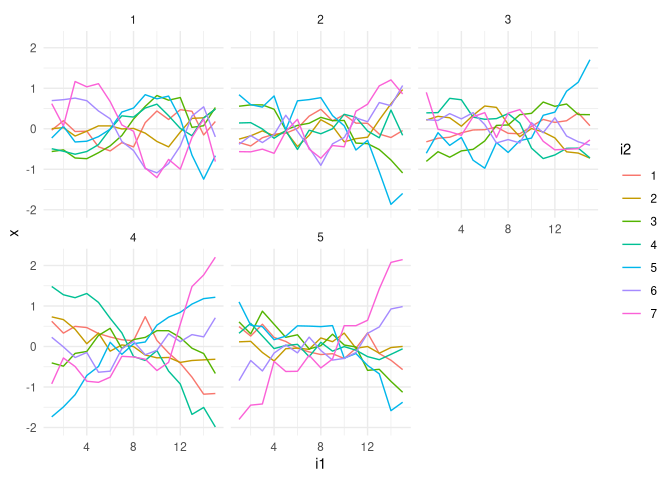
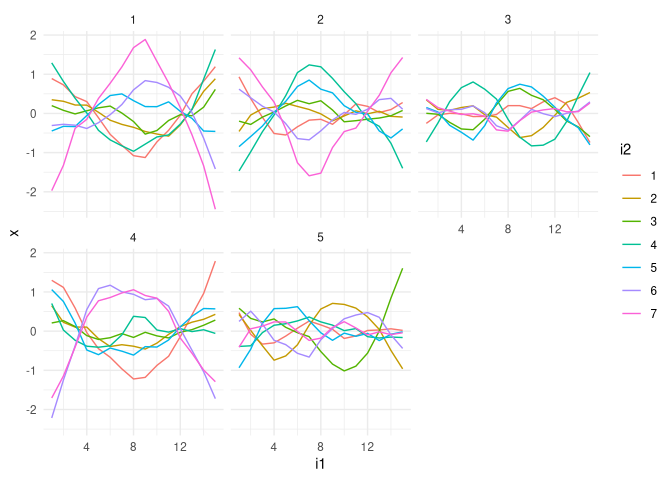
update README

diff --git a/README.md b/README.md
@@ -11,38 +11,38 @@ Status](http://www.r-pkg.org/badges/version-last-release/INLAtools)](https://cra
 <!-- badges: end -->
 
 Contain code to work with a C struct, in short cgeneric, to define a
-Gaussian Markov random (GMRF) model. The cgeneric contain code to
-specify GMRF elements such as the graph and the precision matrix, and
-also the initial and prior for its parameters, useful for model
-inference. It can be accessed from a C program and is the recommended
-way to implement new GMRF models in the ‘INLA’ package
-(<https://www.r-inla.org>). The ‘INLAtools’ implement functions to
-evaluate each one of the model specifications from R. The implemented
-functionalities leverage the use of ‘cgeneric’ models and provide a way
-to debug the code as well to work with the prior for the model
-parameters and to sample from it. A very useful functionality is the
-Kronecker product method that creates a new model from multiple cgeneric
-models. It also works with the rgeneric, the R version of the cgeneric
-intended to easy try implementation of new GMRF models. The Kronecker
-between two cgeneric models can be used to build the spatio-temporal
-intrinsic interaction models [Knorr-Held
-(2000)](https://onlinelibrary.wiley.com/doi/10.1002/1097-0258%2820000915/30%2919%3A17/18%3C2555%3A%3AAID-SIM587%3E3.0.CO%3B2-%23)
-for what the needed constraints are automatically set as in the example
-below.
+Gaussian Markov random (GMRF) model. The cgeneric contain required data
+to specify GMRF elements such as the graph and the precision matrix, as
+well hyper-parameters definition, such as initial values and the prior,
+which are useful for model inference. It can be accessed from a C
+program and is the recommended way to implement new GMRF models in the
+‘INLA’ package (<https://www.r-inla.org>). We also provide access from
+R, useful for code debug and evaluate the prior for multiple parameter
+sets. The implemented functionalities leverage the use of ‘cgeneric’
+models. In order to illustrate it, a model named `generic0` is included.
+It can be used to implement intrinsic models and scale it by default, as
+proposed in Sørbye & Rue (2014) <doi:10.1016/j.spasta.2013.06.004>, as
+well defining the required constraints. A very useful functionality is
+the Kronecker product method that creates a new model from multiple
+cgeneric models. It also works with the rgeneric, the R version of the
+cgeneric intended to easy try implementation of new GMRF models before
+making it for production. The constraints of a Kronecker between two
+cgeneric models, such as spatio-temporal intrinsic interaction models,
+see [Knorr-Held
+(2000)](https://onlinelibrary.wiley.com/doi/10.1002/1097-0258%2820000915/30%2919%3A17/18%3C2555%3A%3AAID-SIM587%3E3.0.CO%3B2-%23),
+are automatically set, as shown in the example bellow.
 
 ## Installation
 
-The ‘INLA’ package is a suggested one, but you will need it for actually
-fitting a model. You can install it with
+The ‘INLA’ package suggested for model fitting. You can install it with
 
 ``` r
-install.packages("INLA",repos=c(getOption("repos"),INLA="https://inla.r-inla-download.org/R/testing"), dep=TRUE) 
-#> Installing package into '/tmp/RtmpwRJbMF/temp_libpath14dfcf7fa00cc0'
-#> (as 'lib' is unspecified)
-#> also installing the dependency 'runjags'
-#> Warning in install.packages("INLA", repos = c(getOption("repos"), INLA =
-#> "https://inla.r-inla-download.org/R/testing"), : installation of package
-#> 'runjags' had non-zero exit status
+install.packages(
+  pkgs = "INLA",
+  repos = c(
+    getOption("repos"),
+    INLA="https://inla.r-inla-download.org/R/testing"), 
+  dependencies = TRUE) 
 ```
 
 You can install the current [CRAN](https://CRAN.R-project.org) version
@@ -69,24 +69,24 @@ $$ \mathbf{Q} = \tau \mathbf{R}_1 \otimes \mathbf{R}_2 $$
 library(Matrix)
 ## first
 n1 <- 15
-(R1 <- crossprod(diff(Diagonal(n1))))
+(R1 <- crossprod(diff(Diagonal(n1), differences = 2)))
 #> 15 x 15 sparse Matrix of class "dsCMatrix"
 #>                                                   
-#>  [1,]  1 -1  .  .  .  .  .  .  .  .  .  .  .  .  .
-#>  [2,] -1  2 -1  .  .  .  .  .  .  .  .  .  .  .  .
-#>  [3,]  . -1  2 -1  .  .  .  .  .  .  .  .  .  .  .
-#>  [4,]  .  . -1  2 -1  .  .  .  .  .  .  .  .  .  .
-#>  [5,]  .  .  . -1  2 -1  .  .  .  .  .  .  .  .  .
-#>  [6,]  .  .  .  . -1  2 -1  .  .  .  .  .  .  .  .
-#>  [7,]  .  .  .  .  . -1  2 -1  .  .  .  .  .  .  .
-#>  [8,]  .  .  .  .  .  . -1  2 -1  .  .  .  .  .  .
-#>  [9,]  .  .  .  .  .  .  . -1  2 -1  .  .  .  .  .
-#> [10,]  .  .  .  .  .  .  .  . -1  2 -1  .  .  .  .
-#> [11,]  .  .  .  .  .  .  .  .  . -1  2 -1  .  .  .
-#> [12,]  .  .  .  .  .  .  .  .  .  . -1  2 -1  .  .
-#> [13,]  .  .  .  .  .  .  .  .  .  .  . -1  2 -1  .
-#> [14,]  .  .  .  .  .  .  .  .  .  .  .  . -1  2 -1
-#> [15,]  .  .  .  .  .  .  .  .  .  .  .  .  . -1  1
+#>  [1,]  1 -2  1  .  .  .  .  .  .  .  .  .  .  .  .
+#>  [2,] -2  5 -4  1  .  .  .  .  .  .  .  .  .  .  .
+#>  [3,]  1 -4  6 -4  1  .  .  .  .  .  .  .  .  .  .
+#>  [4,]  .  1 -4  6 -4  1  .  .  .  .  .  .  .  .  .
+#>  [5,]  .  .  1 -4  6 -4  1  .  .  .  .  .  .  .  .
+#>  [6,]  .  .  .  1 -4  6 -4  1  .  .  .  .  .  .  .
+#>  [7,]  .  .  .  .  1 -4  6 -4  1  .  .  .  .  .  .
+#>  [8,]  .  .  .  .  .  1 -4  6 -4  1  .  .  .  .  .
+#>  [9,]  .  .  .  .  .  .  1 -4  6 -4  1  .  .  .  .
+#> [10,]  .  .  .  .  .  .  .  1 -4  6 -4  1  .  .  .
+#> [11,]  .  .  .  .  .  .  .  .  1 -4  6 -4  1  .  .
+#> [12,]  .  .  .  .  .  .  .  .  .  1 -4  6 -4  1  .
+#> [13,]  .  .  .  .  .  .  .  .  .  .  1 -4  6 -4  1
+#> [14,]  .  .  .  .  .  .  .  .  .  .  .  1 -4  5 -2
+#> [15,]  .  .  .  .  .  .  .  .  .  .  .  .  1 -2  1
 ```
 
 ``` r
@@ -123,9 +123,7 @@ We will use the ‘cgeneric0’ model for each. This model is written with
 precision matrix equal $\tau \mathbf{R}$ where the matrix $\mathbf{R}$
 is the precision structure matrix and $\tau$ is the precision parameter.
 A precision parameter multiplied by a precision structure is a local
-precision. A scaling, as proposed in [Sørbye & Rue
-(2014)](https://www.sciencedirect.com/science/article/pii/S2211675313000407),
-is applied by default in the following code
+precision.
 
 ``` r
 library(INLAtools)
@@ -140,15 +138,56 @@ cg1 <- cgeneric(
 where the prior is a PC-prior, as proposed in [Simpson et.
 al. (2017)](https://projecteuclid.org/journals/statistical-science/volume-32/issue-1/Penalising-Model-Component-Complexity--A-Principled-Practical-Approach-to/10.1214/16-STS576.full).
 
-For the second model we also use the `cgeneric0` but fix the parameter
-to 1, leaving the precision matrix from the first model as the one for
-the resulting precision matrix.
+Notice that this model is intrinsically stationary, so that using it as
+prior makes it an improper prior. The usual way to make it proper is to
+account for its null space and define a constraint. It is done by
+default (`constr = TRUE`) and the returned object already contain the
+‘extraconstr’ to set it:
 
 ``` r
+str(cg1$f$extraconstr)
+#> List of 2
+#>  $ A: num [1:2, 1:15] 0.4887 -0.053 0.4416 -0.0163 0.3944 ...
+#>  $ e: num [1:2] 0 0
+```
+
+The implemented method to define such a constraint has complexity of
+$\mathcal{O}(n^3)$ because it perform the singular value decomposition.
+This is also used to scale the model. This scaling, as proposed in
+[Sørbye & Rue
+(2014)](https://www.sciencedirect.com/science/article/pii/S2211675313000407),
+is applied by default (`scale = TRUE`) and requires the generalized
+inverse of the $\textbf{R}$ matrix.
+
+If one know already what is the null space, it can be used in the
+`extraconstr` argument. Also, the `INLA` package provides a
+computationally efficient way to scale the model. Therefore, for large
+structure matrices, the better is to 1) define a constraint with a known
+null space, 2) use it in `INLA::inla.scale.model()` to scale the model
+3) use both to define the `cgneric` model. We will do this procedure for
+the second model.
+
+For the second model we also use the `cgeneric0` but fix the parameter
+to 1, leaving the precision matrix from the first model as the one for
+the resulting precision matrix. Instead of using `scale = TRUE` and
+`constr = TRUE` (default), we consider an efficient (for larger models)
+way:
+
+``` r
+Ae2 <- list(A = matrix(1, 1, ncol(R2)), e=0) ## sum-to-zero constraint
+R2scaled <- INLA:::inla.scale.model(Q = R2, constr = Ae2)
 cg2 <- cgeneric(
-    model = "generic0", 
-    R = R2, ## precision structure matrix
-    param = c(1, NA)) ## fix sigma = 1
+  model = "generic0", 
+  R = R2scaled, 
+  param = c(1, NA), ## fix the precision/variance parameter
+  extraconstr = Ae2,
+  scale = FALSE, ### already scaled
+  constr = FALSE ## already accounted
+)
+str(cg2$f$extraconstr)
+#> List of 2
+#>  $ A: num [1, 1:7] 1 1 1 1 1 1 1
+#>  $ e: num 0
 ```
 
 The resulting Kronecker product model is
@@ -157,12 +196,29 @@ The resulting Kronecker product model is
 cg12 <- kronecker(cg1, cg2)
 (N <- cg12$f$n)
 #> [1] 105
+```
+
+Because each of the two model has one constraint, this new `cgeneric`
+model account for multiple constraints, the set of constraints in one
+model is replicated along each dimension of the other one. In the case
+of the resulting set of constraint contain redundant ones, these are
+removed. For the our example, the final number of constraints is
+$n_2+n_1-1$:
+
+``` r
+str(cg12$f$extraconstr)
+#> List of 2
+#>  $ A: num [1:27, 1:105] 0.489 0 0 0 0 ...
+#>  $ e: num [1:27] 0 0 0 0 0 0 0 0 0 0 ...
+```
+
+``` r
 tau <- 4
 Q <- cgeneric_Q(cg12, theta = log(tau))
 image(Q)
 ```
 
-<img src="figures/README_cg12-1.png" alt="" width="100%" />
+<img src="figures/README_Q-1.png" alt="" width="100%" />
 
 Note: the scaling makes $\sigma = \tau^{-0.5}$ a marginal standard
 deviation parameter.
@@ -173,7 +229,6 @@ Simulate $k=5$ samples (replicates) from the Kronecker product model
 
 ``` r
 library(INLA)
-#> 
 k <- 5
 xx <- inla.qsample(
   n = k, 
@@ -183,12 +238,12 @@ xx <- inla.qsample(
 )
 apply(xx, 2, summary)
 #>              sample:1      sample:2      sample:3      sample:4      sample:5
-#> Min.    -1.244634e+00 -1.866194e+00 -9.745458e-01 -1.987392e+00 -1.801329e+00
-#> 1st Qu. -4.227840e-01 -3.219279e-01 -3.223740e-01 -3.912217e-01 -2.869913e-01
-#> Median   8.482090e-03 -4.438326e-02  5.705059e-03 -4.288614e-02 -3.924669e-02
-#> Mean    -7.466504e-13 -2.836749e-13 -4.164574e-13  9.863080e-13  2.913949e-13
-#> 3rd Qu.  4.315254e-01  3.253503e-01  3.321958e-01  3.896462e-01  3.117685e-01
-#> Max.     1.166816e+00  1.207106e+00  1.704586e+00  2.204671e+00  2.146385e+00
+#> Min.    -2.445529e+00 -1.591511e+00 -8.281706e-01 -2.215546e+00 -1.014936e+00
+#> 1st Qu. -4.321341e-01 -2.807321e-01 -2.315056e-01 -3.950380e-01 -2.194770e-01
+#> Median   9.715881e-03  2.304194e-02  1.387111e-02 -2.470971e-02  1.311282e-02
+#> Mean     1.673773e-11 -1.447892e-10 -2.221746e-10  1.311346e-11 -1.291080e-10
+#> 3rd Qu.  3.874456e-01  2.783813e-01  2.209574e-01  4.298453e-01  2.364824e-01
+#> Max.     1.886870e+00  1.427273e+00  1.042149e+00  1.788412e+00  1.604736e+00
 ```
 
 Plot each replicate per group
@@ -202,17 +257,17 @@ dataf <- data.frame(
   x = as.vector(xx)
 )
 head(dataf, 10)
-#>    i1 i2  i r            x
-#> 1   1  1  1 1 -0.034621728
-#> 2   1  2  2 1  0.002660055
-#> 3   1  3  3 1 -0.562124644
-#> 4   1  4  4 1 -0.493262069
-#> 5   1  5  5 1 -0.228181017
-#> 6   1  6  6 1  0.695150255
-#> 7   1  7  7 1  0.620379148
-#> 8   2  1  8 1  0.199005668
-#> 9   2  2  9 1  0.027305534
-#> 10  2  3 10 1 -0.520608235
+#>    i1 i2  i r           x
+#> 1   1  1  1 1  0.88939753
+#> 2   1  2  2 1  0.34887895
+#> 3   1  3  3 1  0.19867057
+#> 4   1  4  4 1  1.29002557
+#> 5   1  5  5 1 -0.44791119
+#> 6   1  6  6 1 -0.30868429
+#> 7   1  7  7 1 -1.97037714
+#> 8   2  1  8 1  0.72810764
+#> 9   2  2  9 1  0.30954044
+#> 10  2  3 10 1  0.07878453
 
 library(ggplot2)
 ggplot(dataf) + theme_minimal() + 
@@ -242,12 +297,12 @@ Summary of the intercept and $\tau$ posterior marginals
 ``` r
 fit$summary.fixed
 #>                 mean         sd 0.025quant 0.5quant 0.975quant     mode
-#> (Intercept) 3.006393 0.01037582    2.98604 3.006395   3.026732 3.006396
-#>                     kld
-#> (Intercept) 6.59997e-11
+#> (Intercept) 3.005227 0.01034422   2.984938 3.005229   3.025506 3.005229
+#>                      kld
+#> (Intercept) 5.810311e-11
 fit$summary.hyperpar
 #>                 mean        sd 0.025quant 0.5quant 0.975quant     mode
-#> Theta1 for i 1.65327 0.1147072    1.42753 1.653617   1.877111 1.654305
+#> Theta1 for i 1.26717 0.1489089  0.9732551 1.267941   1.556859 1.269471
 ```
 
 Scatterplot of the posterior mode and simulated
@@ -269,11 +324,11 @@ pm.sigma <- inla.tmarginal(
 1/sqrt(tau)
 #> [1] 0.5
 inla.zmarginal(pm.sigma)
-#> Mean            0.438227 
-#> Stdev           0.0249956 
-#> Quantile  0.025 0.391351 
-#> Quantile  0.25  0.420859 
-#> Quantile  0.5   0.437402 
-#> Quantile  0.75  0.454666 
-#> Quantile  0.975 0.489505
+#> Mean            0.532132 
+#> Stdev           0.0394443 
+#> Quantile  0.025 0.459363 
+#> Quantile  0.25  0.504553 
+#> Quantile  0.5   0.530415 
+#> Quantile  0.75  0.557795 
+#> Quantile  0.975 0.614219
 ```
